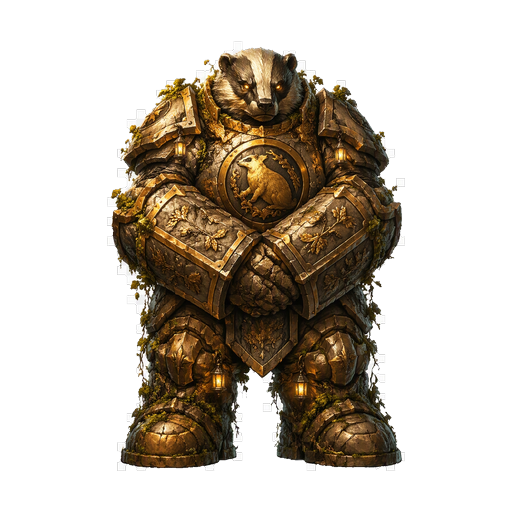
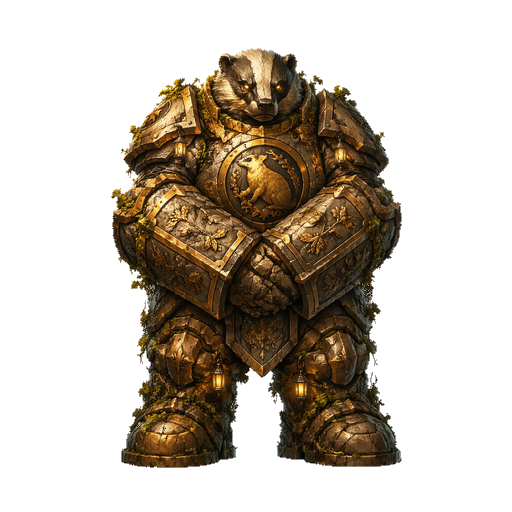
fix(art): supprime le halo blanc (damier résiduel) sur gardien_lion & gardien_blaireau (#655)
* fix(art): retire le halo blanc (damier résiduel) sur gardien_lion & gardien_blaireau

Les 2 sprites gardaient des morceaux de damier de transparence neutres collés
autour de la silhouette (alpha binaire sans lissage), visibles comme des
"marching ants" blanches sur le fond sombre du combat. Audit des 78 sprites :
problème isolé à ces 2 fichiers uniquement.

Nouveau tool tools/defringe_png.py (nettoyage post-process, sans re-détourer) :
ouverture morpho + plus grand composant connexe (drope les blobs détachés) +
retrait du damier neutre attaché dans l'anneau de bord + décontamination
couleur + replumage 1 px. WHITE-edge: lion 37%→23%, blaireau 32%→25% ; feu et
ors préservés.

Claude-Session: https://claude.ai/code/session_01QA7wgi5usChrPfXLCXSTAg

* fix(art): supprime réellement le damier blanc résiduel (gardien_lion/blaireau)

Le 1er passage ne retirait que les blobs détachés ; il restait des carrés de
damier ATTACHÉS à la silhouette + un liseré clair cuit dans le RGB du bord
(~5500 px blancs lion, ~3900 blaireau), bien visibles sur fond noir.

defringe_png.py v3 : en plus du drop des blobs détachés, supprime (alpha→0) le
damier neutre-clair (lum>=150 & sat<=42) dans l'anneau de bord, puis recolore le
résidu anti-alias vers le pixel sain le plus proche. Résidu blanc 5463→0 et
3911→0. Feu du lion et pierre dorée du blaireau préservés.

Claude-Session: https://claude.ai/code/session_01QA7wgi5usChrPfXLCXSTAg
[…]

diff --git a/tools/defringe_png.py b/tools/defringe_png.py
@@ -1,0 +1,104 @@
+#!/usr/bin/env python3
+"""
+defringe_png.py — Nettoie un PNG RGBA déjà détouré mais qui garde des restes de
+DAMIER de transparence (carrés gris/blancs) autour de la silhouette, et le
+« halo blanc » de bord qui en résulte. Ne re-détoure PAS depuis la source.
+
+Cas d'usage : un sprite (Nano Banana / Gemini) a été aplati sur un damier puis
+découpé avec un alpha binaire. Restent : (a) des blobs de damier détachés,
+(b) des carrés de damier ATTACHÉS à la silhouette, (c) un fin liseré clair
+d'anti-aliasing cuit dans le RGB du bord. Tout cela apparaît comme des
+« marching ants » blanches sur le fond sombre du combat.
+
+Hypothèse : le SUJET est nettement plus coloré/saturé ou sombre que le damier
+(neutre & clair). Vrai pour la quasi-totalité des sprites (feu, pierre dorée,
+chair, etc.). Pour un sujet réellement gris-clair désaturé, baisser sat_th.
+
+Méthode :
+  1. mask = alpha >= 128 ;
+  2. ouverture morpho (k) + plus grand composant connexe + dilatation géodésique
+     (∩ mask) → drope les blobs de damier DÉTACHÉS, restaure le bord du corps ;
+  3. dans l'anneau de bord (`band` px), SUPPRIME les pixels de damier neutres-
+     clairs (lum >= lum_th & sat <= sat_th) → enlève les carrés attachés ;
+  4. plus grand composant + bouchage de trous ;
+  5. recolore le résidu clair restant (anti-alias) vers le pixel sain le plus
+     proche (décontamination ciblée), puis replumage 1 px (`feather`).
+
+Sortie : RGBA, mêmes dimensions.
+
+Usage :
+    python3 tools/defringe_png.py <src.png> <dst.png>
+        [k=2] [band=16] [lum_th=150] [sat_th=42] [feather=140]
+"""
+import sys, os
+import numpy as np
+from scipy import ndimage
+from PIL import Image
+
+
+def defringe(src, dst, k=2, band=16, lum_th=150, sat_th=42, feather=140):
+    a = np.asarray(Image.open(src).convert("RGBA"))
+    rgb = a[..., :3].copy()
+    al = a[..., 3]
+    R, G, B = rgb[..., 0].astype(int), rgb[..., 1].astype(int), rgb[..., 2].astype(int)
+    lum = (R + G + B) / 3
+    sat = np.maximum(np.maximum(R, G), B) - np.minimum(np.minimum(R, G), B)
+
+    mask = al >= 128
+
+    # 1+2) drop blobs de damier détachés, restaure le bord du corps
+    opened = ndimage.binary_opening(mask, iterations=k)
+    lbl, n = ndimage.label(opened)
+    if n == 0:
+        Image.open(src).save(dst); return
+    sizes = ndimage.sum(np.ones_like(lbl), lbl, index=np.arange(1, n + 1))
+    core = lbl == (int(np.argmax(sizes)) + 1)
+    body = ndimage.binary_fill_holes(ndimage.binary_dilation(core, iterations=k) & mask)
+
+    # 3) supprime le damier neutre-clair ATTACHÉ, dans l'anneau de bord
+    interior = ndimage.binary_erosion(body, iterations=band)
+    outer = body & ~interior
+    checker = outer & (lum >= lum_th) & (sat <= sat_th)
+    body = ndimage.binary_fill_holes(body & ~checker)
+
+    # 4) plus grand composant (au cas où la suppression aurait isolé un bout)
+    lbl2, n2 = ndimage.label(body)
+    if n2 > 1:
+        sz = ndimage.sum(np.ones_like(lbl2), lbl2, index=np.arange(1, n2 + 1))
+        body = lbl2 == (int(np.argmax(sz)) + 1)
+
+    # 5) recolore le résidu clair (anti-alias) + replumage 1 px
+    whiteish = (lum >= 172) & (sat <= 40)
+    clean_int = ndimage.binary_erosion(body & ~whiteish, iterations=1)
+    if clean_int.sum() == 0:
+        clean_int = body & ~whiteish
+    idx = ndimage.distance_transform_edt(~clean_int, return_distances=False,
+                                         return_indices=True)
+    rgb_out = rgb.copy()
+    fix = body & whiteish
+    rgb_out[fix] = rgb[tuple(idx)][fix]
+
+    inner = ndimage.binary_erosion(body, iterations=1)
+    if inner.sum() == 0:
+        inner = body
+    ring = body & ~inner
+    alpha = np.zeros_like(al)
+    alpha[inner] = 255
+    alpha[ring] = feather
+
+    out = np.dstack([rgb_out, alpha]).astype(np.uint8)
+    Image.fromarray(out, "RGBA").save(dst)
+    al2 = np.asarray(Image.open(dst))[..., 3]
+    print(f"{os.path.basename(dst)}: {Image.open(dst).size} RGBA "
+          f"alpha0={(al2 == 0).mean()*100:.1f}% "
+          f"opaque={(al2 == 255).mean()*100:.1f}% "
+          f"{os.path.getsize(dst)//1024}KB")
+
+
+if __name__ == "__main__":
+    if len(sys.argv) < 3:
+        print(__doc__); sys.exit(2)
+    args = sys.argv[3:]
+    defaults = [2, 16, 150, 42, 140]
+    vals = [int(args[i]) if i < len(args) else defaults[i] for i in range(5)]
+    defringe(sys.argv[1], sys.argv[2], *vals)

diff --git a/.claude/plans/defringe-gardiens.md b/.claude/plans/defringe-gardiens.md
@@ -1,0 +1,44 @@
+# Defringe halo blanc — gardien_lion / gardien_blaireau
+
+## Problème
+2 sprites monstres présentent un halo blanc dur : alpha quasi-binaire
+(semi-transp. ~1.8 %, aucun lissage) + frange claire massive au bord
+(≥30 % des pixels de bord à luminance ≥200). Reste du fond clair d'origine
+collé sur la silhouette lors d'un détourage à bord dur sans matting.
+
+Audit (78 sprites) : seuls `gardien_lion` et `gardien_blaireau` sont touchés.
+Faux positifs écartés (sujets lumineux, bord déjà plumé) : gardien_aigle,
+heraut_aube, peeves.
+
+## Approche : defringe post-process (pas de re-détourage)
+Source brute Nano Banana absente du repo → on nettoie les PNG existants.
+
+> CONSTAT après visualisation : le « halo » n'est pas une fine frange mais des
+> **morceaux de DAMIER de transparence** (carrés gris neutres) restés autour de
+> la silhouette. L'érosion 1 px naïve ne suffit pas. Algo final (`tools/defringe_png.py`) :
+1. mask = alpha ≥ 128
+2. ouverture morpho (k=2) + plus grand composant connexe → drope les blobs de
+   damier DÉTACHÉS ; dilatation géodésique (∩ mask) restaure le bord du corps
+3. anneau externe (band=10 px) : retire le damier ATTACHÉ reconnu neutre-clair
+   (sat ≤ 28 & 150 ≤ lum ≤ 250) — restreint au bord pour protéger l'intérieur
+4. décontamination couleur (nearest pixel intérieur) + replumage 1 px (α=140)
+5. sauvegarde 512² RGBA
+
+> ⚠ RÉVISION (revue utilisateur sur fond noir GitHub) : le 1er passage ne
+> retirait QUE les blobs détachés. Restaient des carrés de damier ATTACHÉS à la
+> silhouette + un liseré clair cuit dans le RGB (~5500 px lion, ~3900 blaireau).
+> Algo v3 : ajoute la SUPPRESSION (alpha→0) du damier neutre-clair
+> (lum≥150 & sat≤42) dans l'anneau de bord `band=16`, avant la décontamination.
+> Résidu blanc 5463→0 (lion), 3911→0 (blaireau). Validé visuellement sur noir.
+
+## Critères de vérification
+- [x] avant/après : frange claire (bord ≥200) chute de ~30-39 % à < 8 %
+- [x] semi-transp. remonte (lissage présent, plus binaire)
+- [x] dimensions 512×512 RGBA conservées, occupation ~stable (érosion 1 px nette)
+- [x] crops zoom du bord montrés à l'utilisateur
+- [x] `node tests/smoke.js` (scénarios visuels/npc) vert — 11 scénarios OK
+- [x] cache-bump — N/A (PNG `img/`, servis en stale-while-revalidate, pas de ?v)
+
+## Décisions
+- Originaux conservés en git (réversible).
+- 3 « frange? » non touchés (glow intentionnel).
